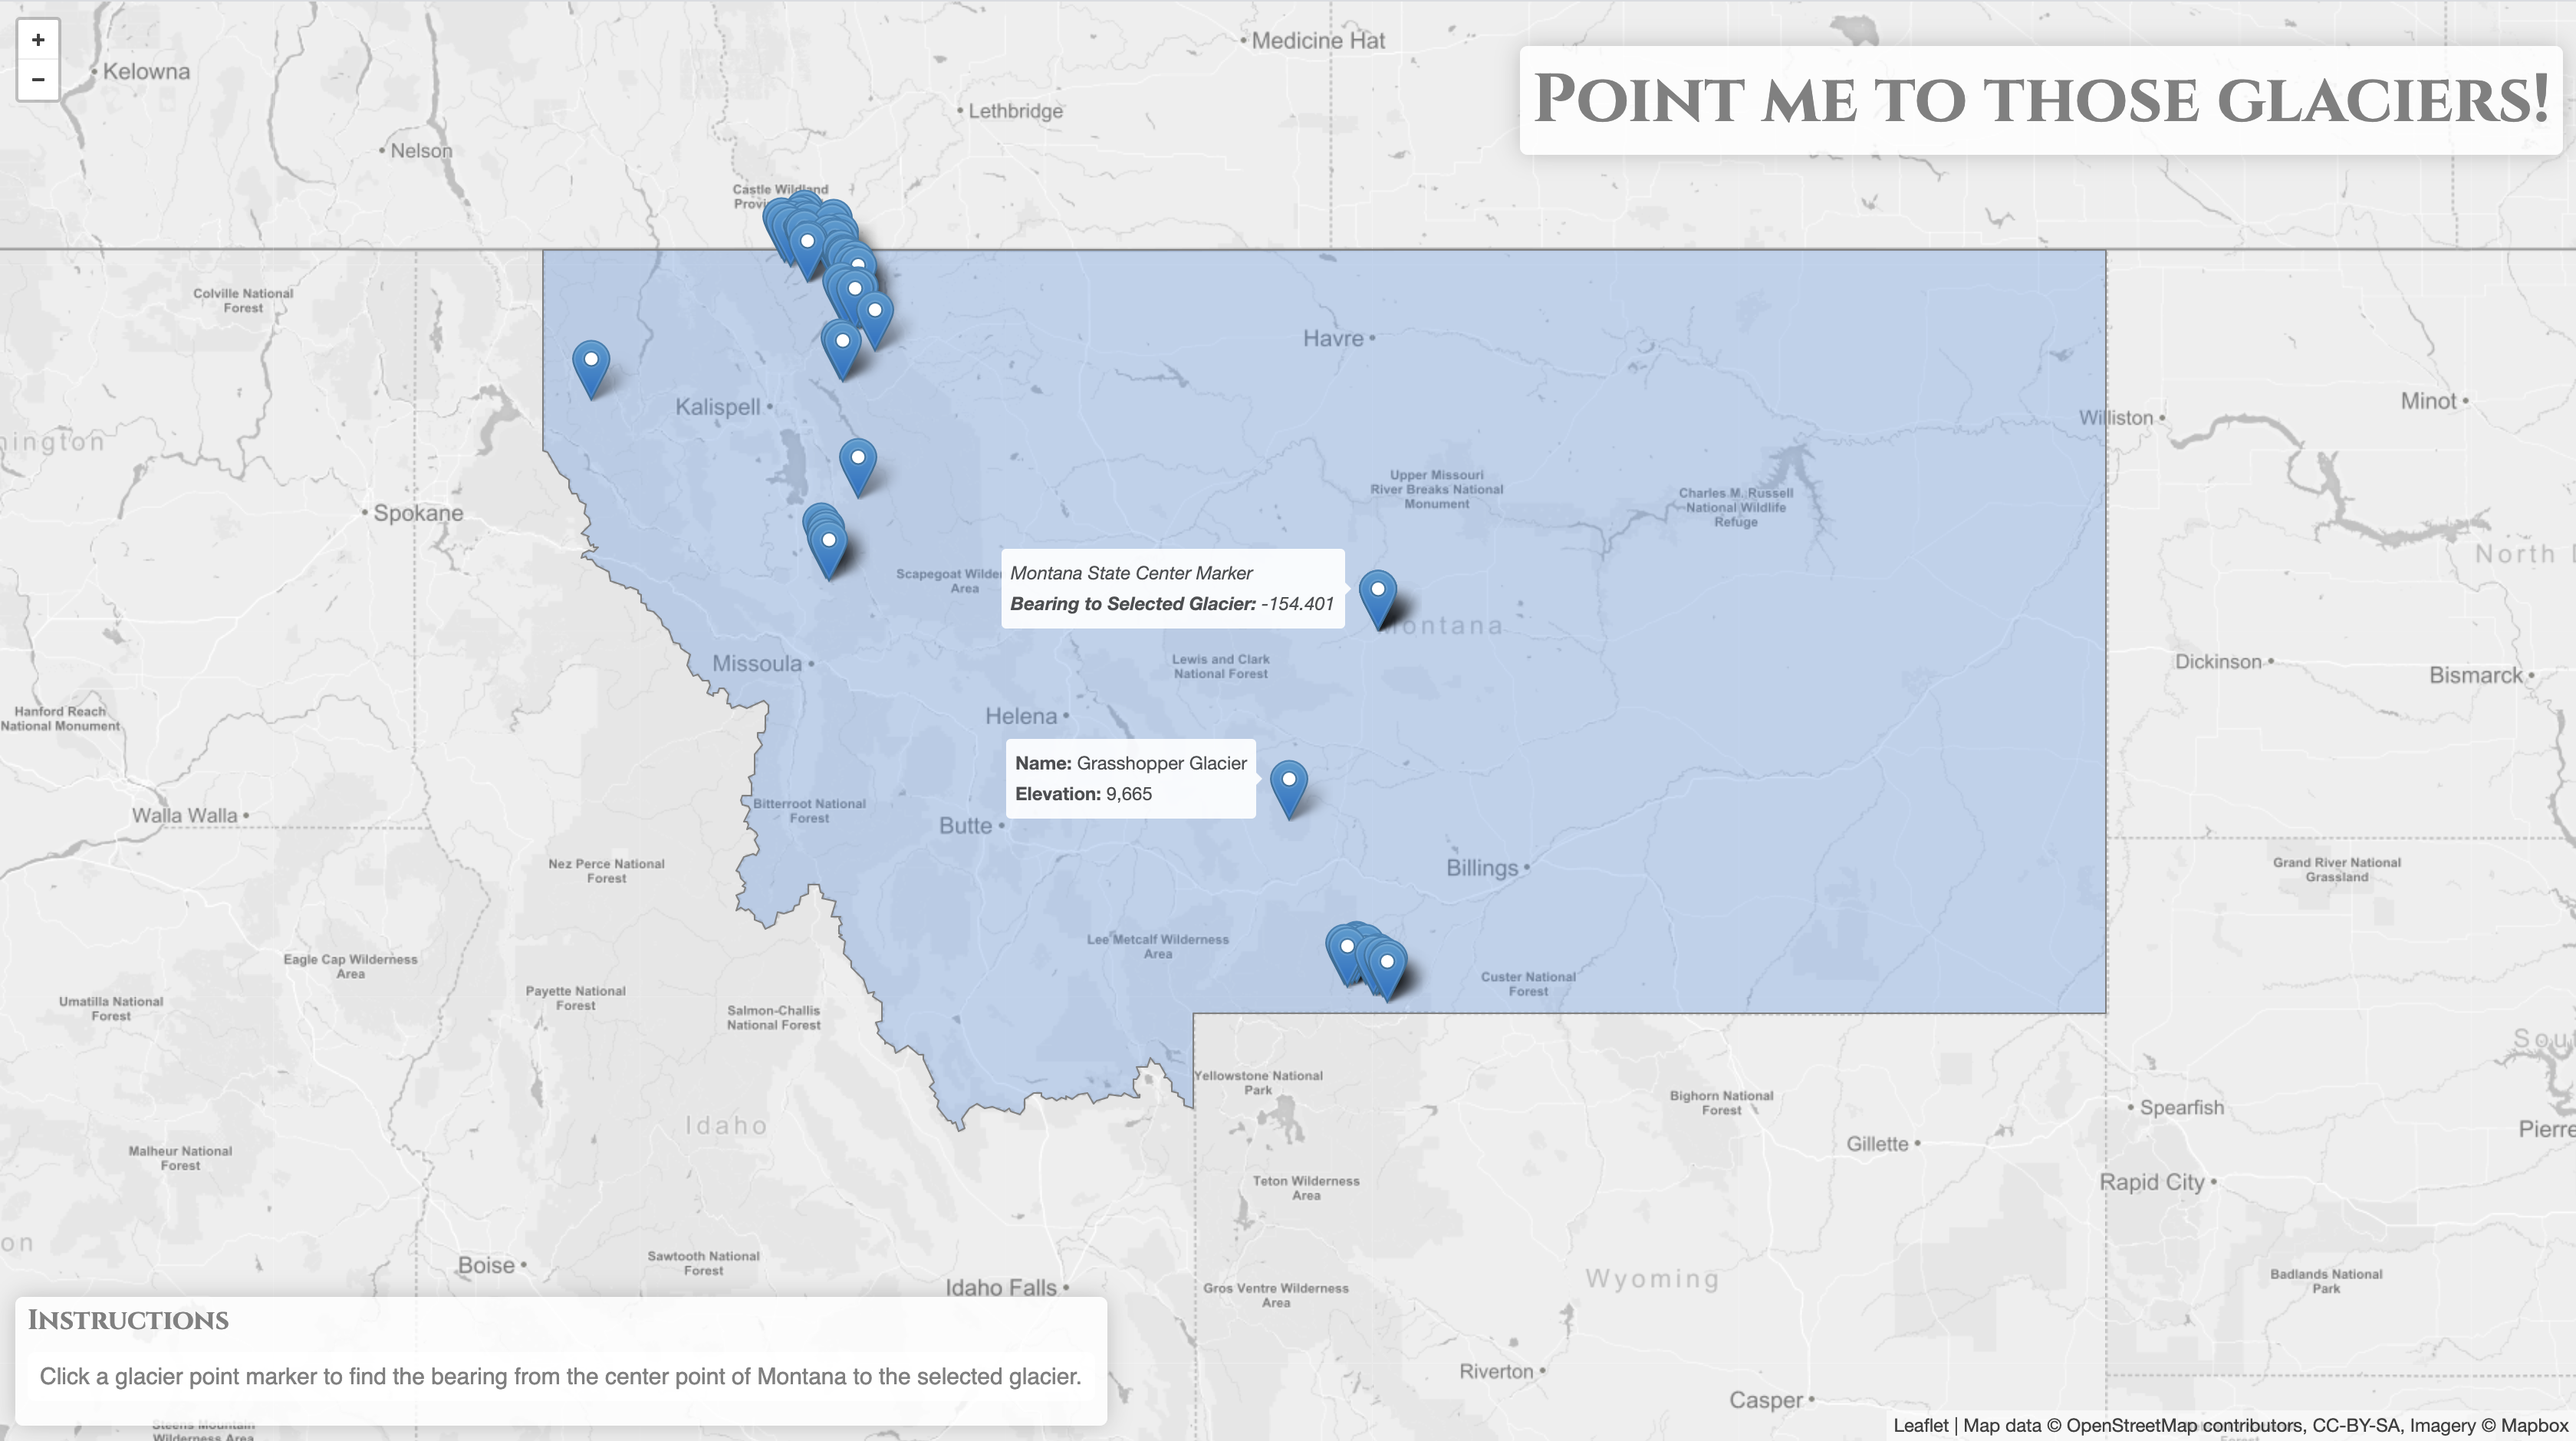
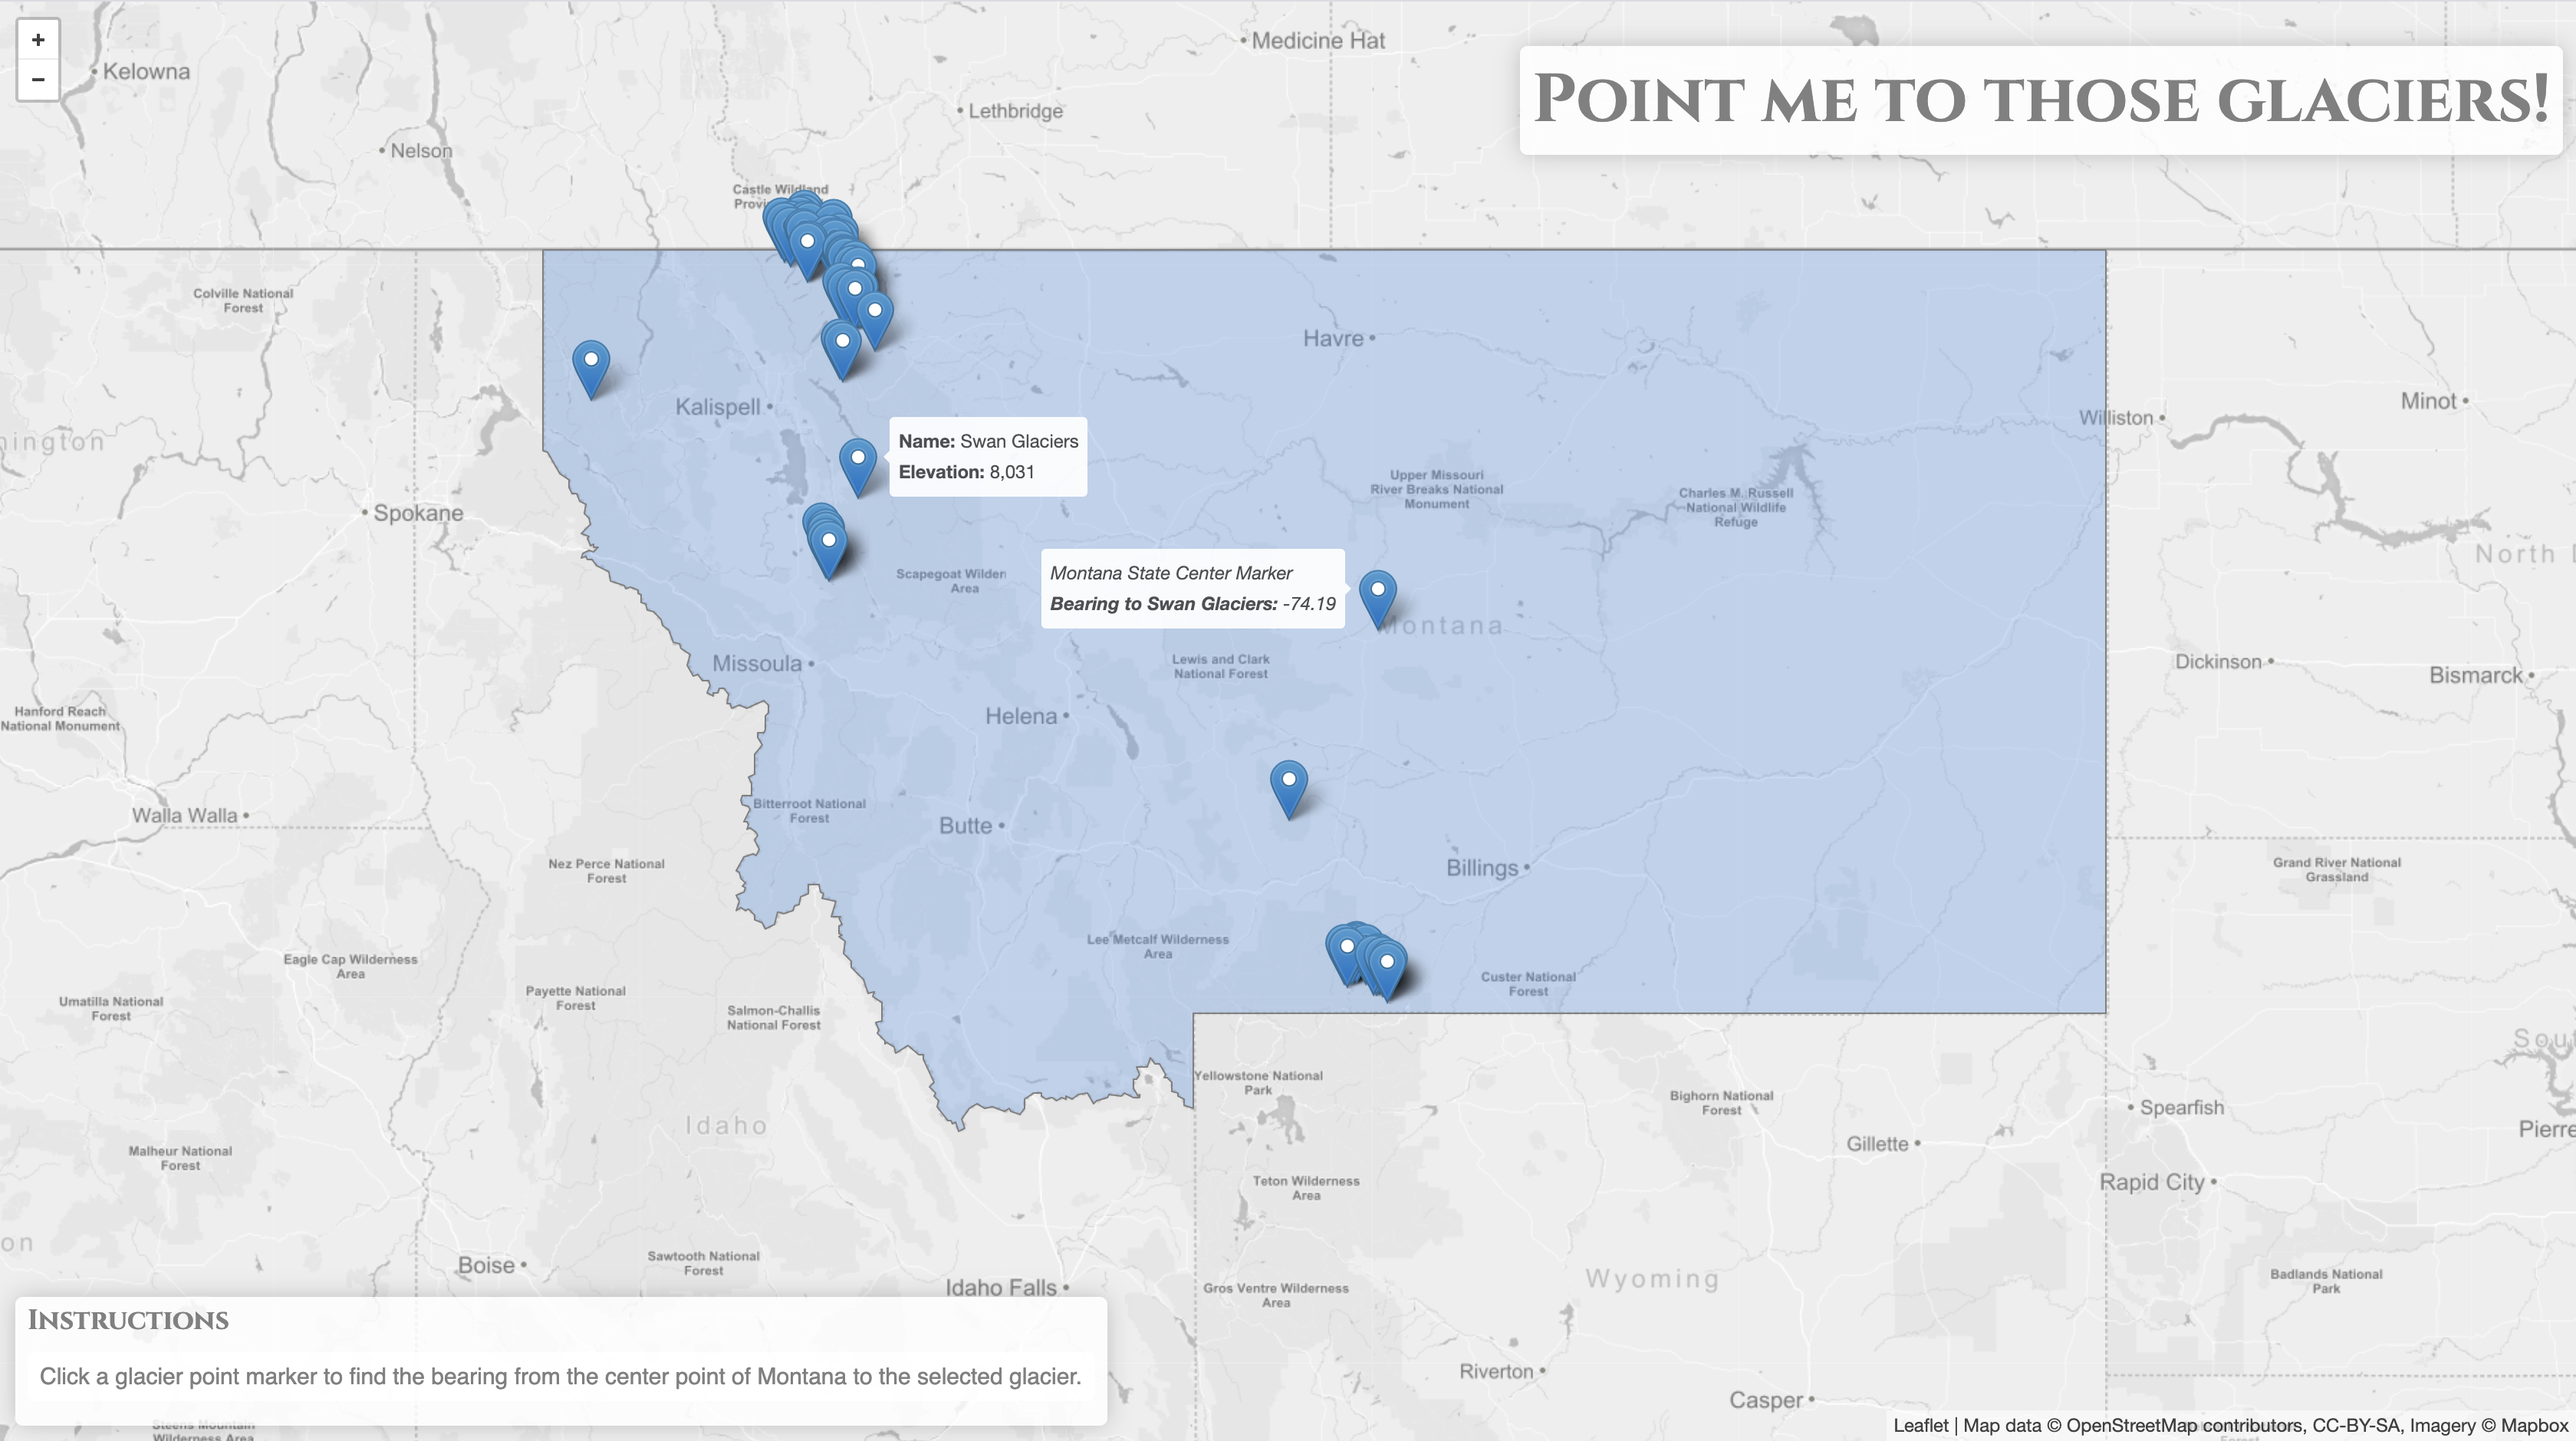
update centerpoint marker tooltip

Changed region(s): [[0.3406, 0.2777, 0.5573, 0.4319], [0.3715, 0.4936, 0.4954, 0.5862]]

diff --git a/index-bearing.html b/index-bearing.html
@@ -164,22 +164,28 @@
                 marker.on('click', function (ev) {
                     // get marker coordinates
                     console.log(feature.geometry.coordinates);
+                    
+                    // get clicked glacier name
+                    console.log(feature.properties.FEATURE_NAME)
 
                     var clickedGlacierCoords = feature.geometry.coordinates
 
-                    getCoords(clickedGlacierCoords, mtState, glacier)
+                    var clickedGlacierName = feature.properties.FEATURE_NAME
+
+                    getCoords(clickedGlacierName, clickedGlacierCoords, mtState, glacier)
                 }); // end event listener
 
             })
 
-            function getCoords(clickedGlacierCoords) {
+            function getCoords(clickedGlacierName, clickedGlacierCoords) {
                 //verify access to info
                 console.log(clickedGlacierCoords)
+                console.log(clickedGlacierName)
                 console.log(mtState)
                 console.log(glacier)
 
                 //call bearingToCentroid
-                bearingToCentroid(clickedGlacierCoords, mtState, glacier);
+                bearingToCentroid(clickedGlacierName,clickedGlacierCoords, mtState, glacier);
             }
 
             // Call function to draw map instructions
@@ -218,11 +224,12 @@
         } //end drawInstructions
 
 
-        function bearingToCentroid(clickedGlacierCoords, mtState, glacier) { //coords,
+        function bearingToCentroid(clickedGlacierName, clickedGlacierCoords, mtState, glacier) { //coords,
             // access to mtState, coords and glacier here
             console.log(glacier)
             console.log(mtState)
             console.log(clickedGlacierCoords)
+            console.log(clickedGlacierName)
 
             // coordinates for center point
             var polygon = turf.polygon(mtState.features[0].geometry.coordinates);
@@ -239,14 +246,13 @@
             var point1 = turf.point(clickedGlacierCoords);
             var point2 = turf.point(center.geometry.coordinates);
 
-            //    console.log(point2)
-
+            // bearing from center to clicked glacier
             var bearing = turf.bearing(point2, point1);
             console.log(bearing)
 
             // add bearing to centroid tooltip
             centerPoint.bindTooltip(
-                    `<i>Montana State Center Marker<i><br><b>Bearing to Selected Glacier:</b> ${bearing.toLocaleString()}`
+                    `<i>Montana State Center Marker<i><br><b>Bearing to ${clickedGlacierName}:</b> ${bearing.toLocaleString()}`
                 )
                 .openTooltip();
 
